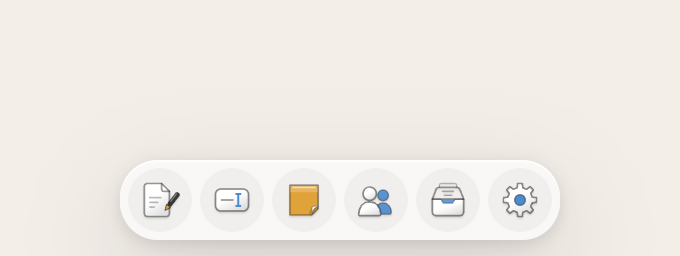
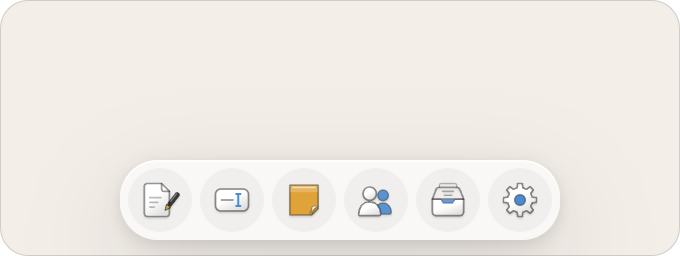
README in a plainer voice, with real Mac window screenshots (#8)
Rewritten without the tics that made it read as generated: no colon
reveals, no stacked one-line facts, no bold-lead bullets. The icon has
the Mac's rounded corners, and the screenshots are framed as window
captures with the traffic lights, rounded corners and a shadow.

Changed region(s): [[0.0309, 0.9688, 0.9574, 1.0], [0.0309, 0.0, 0.9574, 0.0312], [0.9882, 0.0938, 1.0, 0.9062]]

diff --git a/README.md b/README.md
@@ -1,58 +1,52 @@
 <p align="center">
-  <img src="design/icon.png" width="112" alt="">
+  <img src="docs/images/icon.png" width="112" alt="">
 </p>
 
 <h1 align="center">TabTasker Dictate</h1>
 
 <p align="center">
-  <strong>Talk instead of typing, on your Mac.</strong><br>
-  Hold a key, say it, and it’s written. In any app, and it never leaves your Mac.
+  <strong>Talk, and it’s typed.</strong><br>
+  Hold fn in any app, say what you want to write, and let go.
 </p>
 
 <p align="center">
   <img src="docs/images/window.png" alt="The TabTasker Dictate window with a note open">
 </p>
 
-## What it is
-
-TabTasker Dictate sits at the edge of your screen as a few quiet dots. Hold fn and talk: your words appear
-where the cursor is, in your email, your chat, your code editor, anywhere. Let go and you’re done.
-
-Point at the dots and they open into everything else: speak a note, write one, put a sticky on the screen,
-record a meeting.
+Dictate lives in a few small dots at the edge of your screen. Wherever your cursor is, hold your key and
+talk, and your words are typed in when you let go. The dots open up for everything else: a note you can
+talk into for as long as you like, a sticky that stays on top of your windows, or a meeting recording.
 
 <p align="center">
   <img src="docs/images/dots.png" width="340" alt="The dots, opened into their buttons">
 </p>
 
-## What you can do
+## What’s in it
 
-- **Type with your voice, anywhere.** Every app, more than 40 languages, and “send” presses Return for you.
-- **Take notes by talking.** Talk for as long as you like. The note is saved as a plain Markdown file in
-  your Documents folder, ready to edit with headings, to-dos, tables and pictures.
-- **Keep stickies on top.** Small notes that float over your other windows. Say “sticky: call Thomas”
-  while you dictate and one appears.
-- **Record meetings.** The room and the other side of a call, transcribed as it goes, with every voice
-  told apart.
-- **Add AI if you want it.** Connect Claude, or a model running on your own Mac, and it titles your notes,
-  summarises meetings, tidies what you dictate and follows spoken commands.
+- Dictation in any app, in more than 40 languages. Say “send” at the end and it presses Return for you.
+- Notes you can talk or type. They’re plain Markdown files in your Documents folder, so Obsidian and
+  everything else can read them.
+- Stickies that float over your windows until you close them. Say “sticky: call Thomas” while you dictate
+  and one appears.
+- Meeting recordings that tell the voices apart, including the other side of a call.
+- AI if you want it. Connect Claude or a model running on your Mac, and it’ll name your notes, summarise
+  your meetings and tidy up what you dictate.
 
 <p align="center">
   <img src="docs/images/stickies.png" alt="Stickies in their own colours">
 </p>
 
-## Private by design
+## Privacy
 
-Your voice is turned into text by Whisper, running on your Mac’s own chip. No audio is ever uploaded.
-There’s no account and nothing to sign in to. If you connect a model, it only ever sees text, and you can
-see exactly what it gets in Settings.
+Speech recognition runs on your Mac, so your voice never leaves it and you don’t need an account. If you
+connect an AI model, it only ever gets text, and Settings shows you exactly what it sees.
 
 ## Get started
 
-You need a Mac with Apple silicon and macOS 13 or later. On first launch the app downloads its speech model
-once (about 875 MB) and walks you through the microphone and Accessibility permissions.
+You’ll need a Mac with Apple silicon on macOS 13 or later. The first time it opens, Dictate downloads its
+speech model (about 875 MB) and walks you through the two permissions it needs.
 
-To build it yourself, with Rust, Node 22 and Xcode’s command line tools installed:
+To build it yourself, install Rust, Node 22 and Xcode’s command line tools, then:
 
 ```sh
 npm install
@@ -60,7 +54,7 @@ npm run tauri dev      # run from source
 npm run tauri build    # TabTasker Dictate.app and a DMG in src-tauri/target/release/bundle
 ```
 
-How it all works is written up in [docs/spec/v1.md](docs/spec/v1.md).
+The full design is written up in [docs/spec/v1.md](docs/spec/v1.md).
 
 ## License
 
